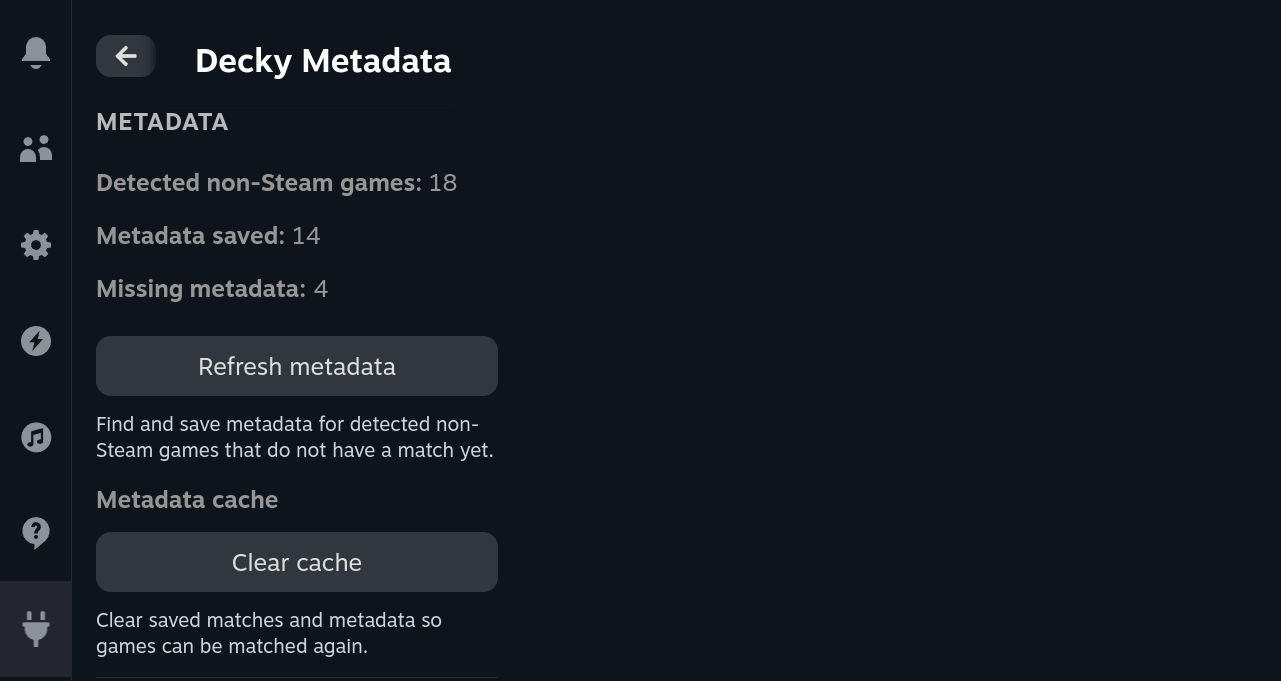
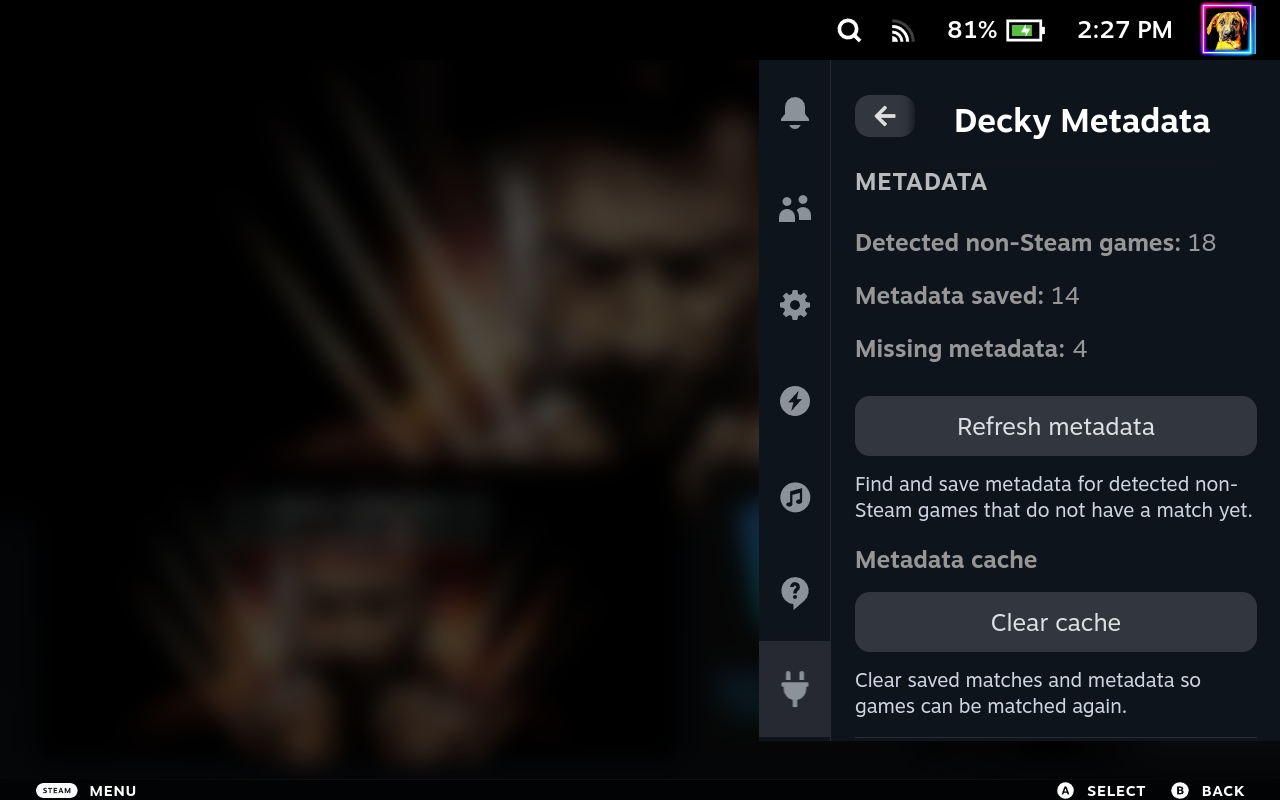
docs(readme): fix license badge and recapture QAM screenshot
Replace the dynamic github/license badge (rendered "not identifiable by
github" because LICENSE appends third-party attributions, yielding
NOASSERTION) with a static GPL-3.0-or-later SPDX badge matching
package.json.

Recapture the QAM screenshot as a real gamescope framebuffer composite:
the Decky Metadata panel docked on the right with the background dimmed,
replacing the isolated left-docked-on-black panel capture.

diff --git a/README.md b/README.md
@@ -1,6 +1,6 @@
 # Decky Metadata
 
-[![License: GPL-3.0-or-later](https://img.shields.io/github/license/beallio/Decky-Metadata)](LICENSE)
+[![License: GPL-3.0-or-later](https://img.shields.io/badge/license-GPL--3.0--or--later-blue)](LICENSE)
 [![Latest release](https://img.shields.io/github/v/release/beallio/Decky-Metadata)](https://github.com/beallio/Decky-Metadata/releases/latest)
 [![CI](https://github.com/beallio/Decky-Metadata/actions/workflows/ci.yml/badge.svg)](https://github.com/beallio/Decky-Metadata/actions/workflows/ci.yml)
 
@@ -8,7 +8,7 @@
 
 Decky Metadata helps your non-Steam games feel at home in your Steam library. On SteamOS and Steam Deck, it finds the details a shortcut is missing, brings in content from the matching Steam game, and gives you simple controls through Decky Loader.
 
-![Decky Metadata Quick Access Menu panels](assets/decky-metadata-qam.png?cacheBuster=20260717)
+![Decky Metadata Quick Access Menu panels](assets/decky-metadata-qam.png?cacheBuster=20260718)
 
 ## Install
 